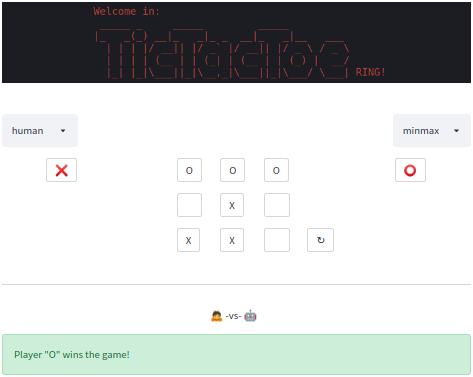
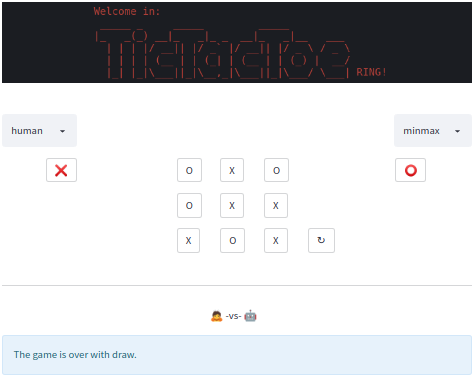
Fix mechanics

diff --git a/streamlit.py b/streamlit.py
@@ -42,13 +42,13 @@ def init_session(x_id: str, o_id: str, mode: Optional[str]=None) -> None:
     ses.rec = []
 
 def exec_move_processor(pos: Optional[int]=None) -> None:
-    if ses.board.is_open() and (pos is not None or ses.plyr.ID != HumanUI.ID):
+    if not ses.rec and (pos is not None or ses.plyr.ID != HumanUI.ID):
         if ses.plyr.ID != HumanUI.ID:
             pos = ses.plyr.make_move(ses.board)
         ses.board.process_move(ses.plyr.sign, pos)
         ses.plyr, ses.plyr_n = ses.plyr_n, ses.plyr
         if not ses.board.is_open():
-            ses.rec = ses.board.get_winner()
+            ses.rec.append(ses.board.get_winner())
 
 def exec_tournament_processor() -> None:
     for i in range(NMIN, ses.n_games+1):

diff --git a/tictactoe/board.py b/tictactoe/board.py
@@ -93,4 +93,4 @@ class XOBoard(BoardAPI):
         return self._winner
 
     def is_open(self) -> bool:
-        return not self._winner and any(self.get_open_poss())
+        return not self._winner and len(self.get_open_poss()) > 0

diff --git a/README.md b/README.md
@@ -8,14 +8,14 @@ The purpose of what's above, despite fun, was to facilitate the the process of b
  - referential bots implementations i.e.: `minmax`, `debuts`, `random`, `search` (and `human`^^);
  - `playground` / `tournament` modes providing respectively touch'n'feel / at scale gameplays;
  - transparent API exposed to interfere with: [BoardAPI](https://github.com/protago90/tictactoe-ring/blob/main/tictactoe/board.py#L8) and [PlayerAPI](https://github.com/protago90/tictactoe-ring/blob/main/tictactoe/player.py#L10);
- - twofold UI, via: shell cli script (see `demo.gif`) or clickable GUI (hosted? [HERE](https://share.streamlit.io/protago90/tictactoe-ring/main/streamlit.py) <img width="10" src="misc/link.png">).
+ - twofold UI, via: shell cli script (see `demo.gif`) or clickable GUI (hosted [HERE](https://share.streamlit.io/protago90/tictactoe-ring/main/streamlit.py) <img width="10" src="misc/link.png">).
 
-<p align="center"> <img width="250" src="misc/gui.png" alt="streamlit"> </p>
+<p align="center"> <img width="150" src="misc/gui.png" alt="streamlit"> </p>
  
-##### QUICKTOUR:
+##### #QUICKTOUR:
 ```
 # for client shell scirpt:
-# (optiona) python3.8 -m pip install tqdm==4.51.0
+# (optional) python3.8 -m pip install tqdm==4.51.0
 python3.8 -m tictactoe -o debuts -x minmax  # -n 10
 
 # for gui server deploy & run:
